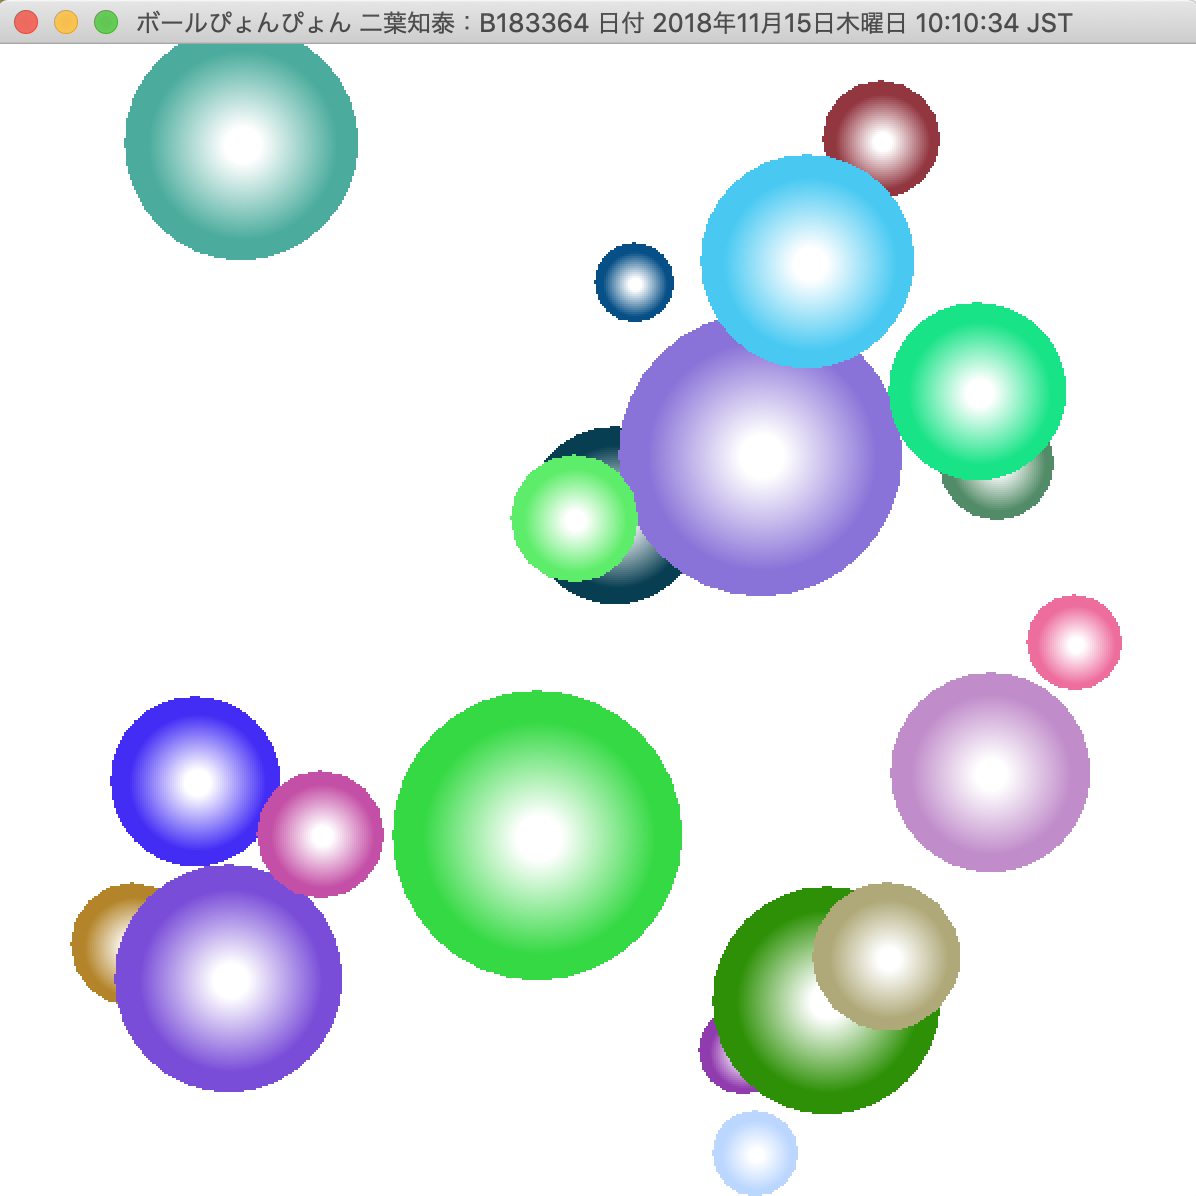
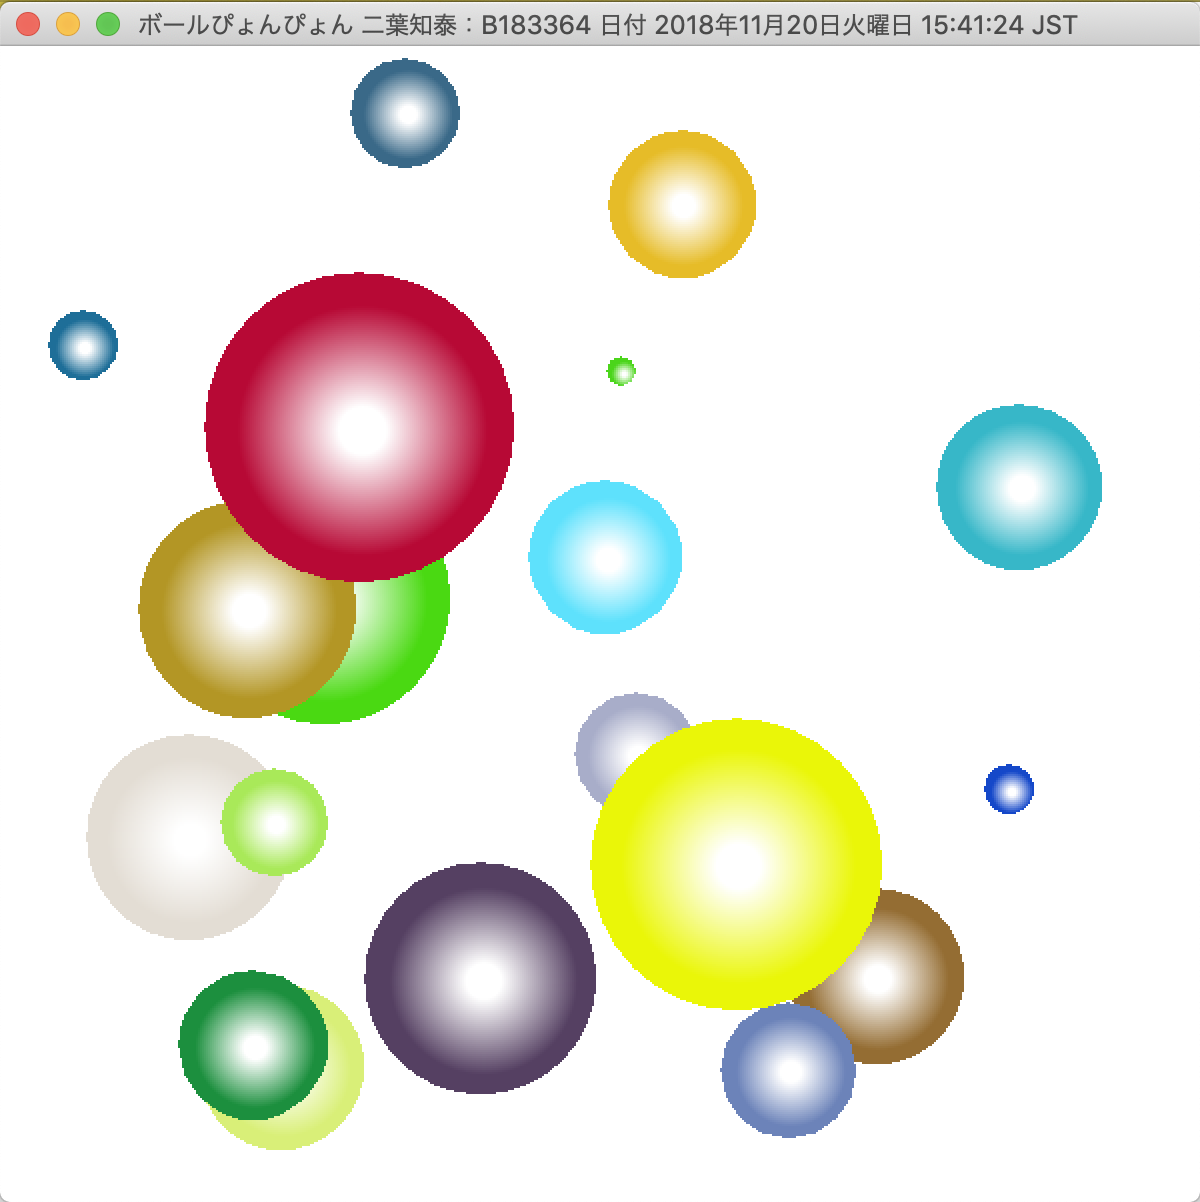
修正

diff --git a/Practice6/Ball.java b/Practice6/Ball.java
@@ -23,7 +23,7 @@ public class Ball {
   public Ball(int i) {
     // get the random value
     Date date = new Date();
-    Random random = new Random();
+    Random random = new Random(date.getTime() * i);
 
     // set each value within the range
     this.r = random.nextDouble()*80;
